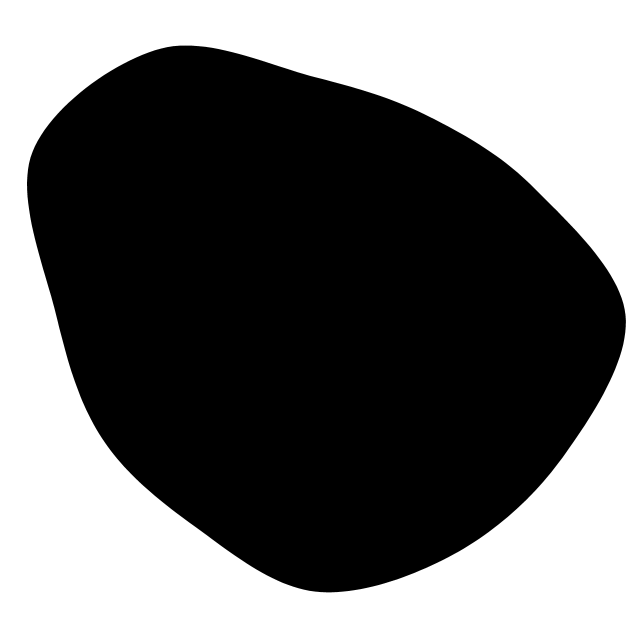
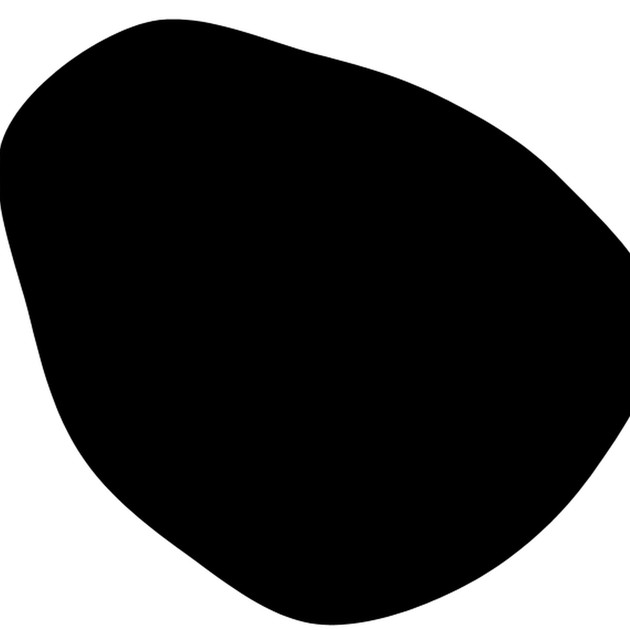
fix(onboarding): Fill the welcome orb's mask to its canvas so the opening orb appears at full size

Changed region(s): [[0.0, 0.0302, 1.0, 0.9952]]

diff --git a/Resources/Onboarding/README.md b/Resources/Onboarding/README.md
@@ -31,7 +31,8 @@ the complete Resources tree and links AVFoundation for playback.
   2100 × 1500 with constant 66/255 alpha: every pixel's red, green and blue
   are drawn independently with a bright-leaning spread, so the moving film
   grain reads as soft colour speckle rather than harsh grey static.
-- `orb-mask.png` is a 630 × 630 smooth twelve-point blob that shapes the orb.
+- `orb-mask.png` is a 630 × 630 smooth twelve-point blob that fills its canvas
+  edge to edge and shapes the orb.
 
 Parc resolves every file from its own bundle; Swift uses CoreText for the font and AVFoundation for media.
 
